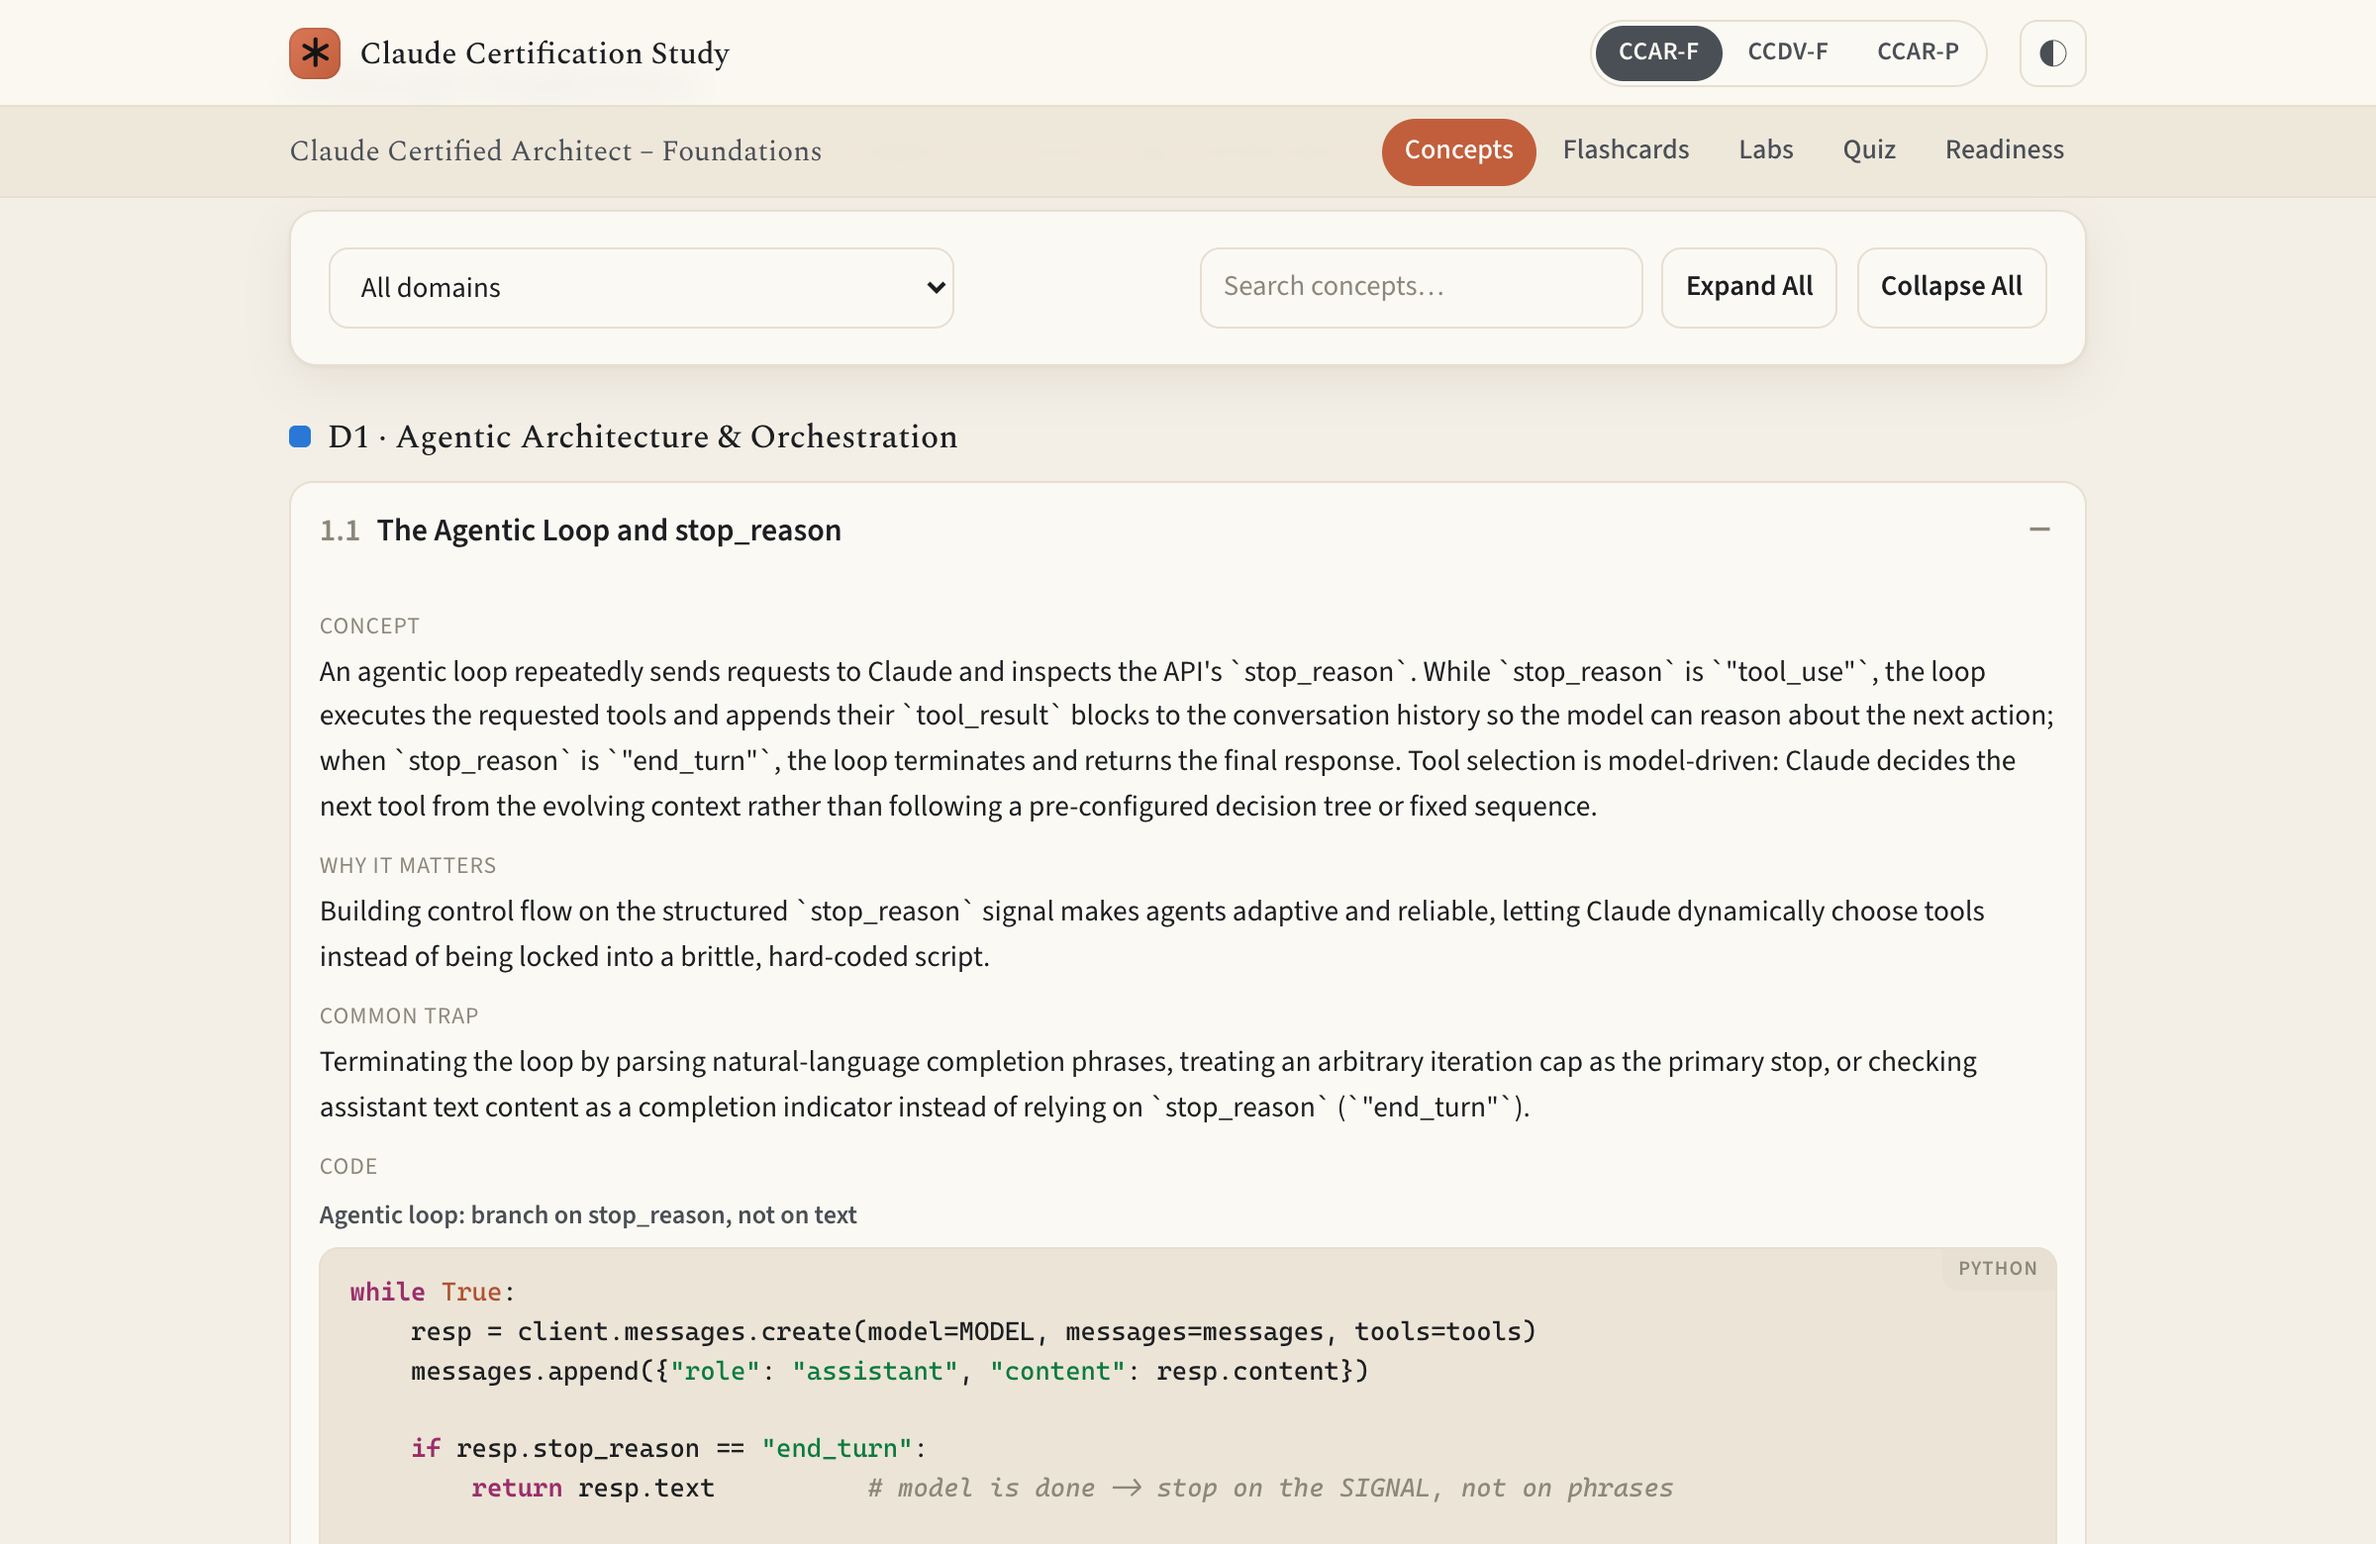
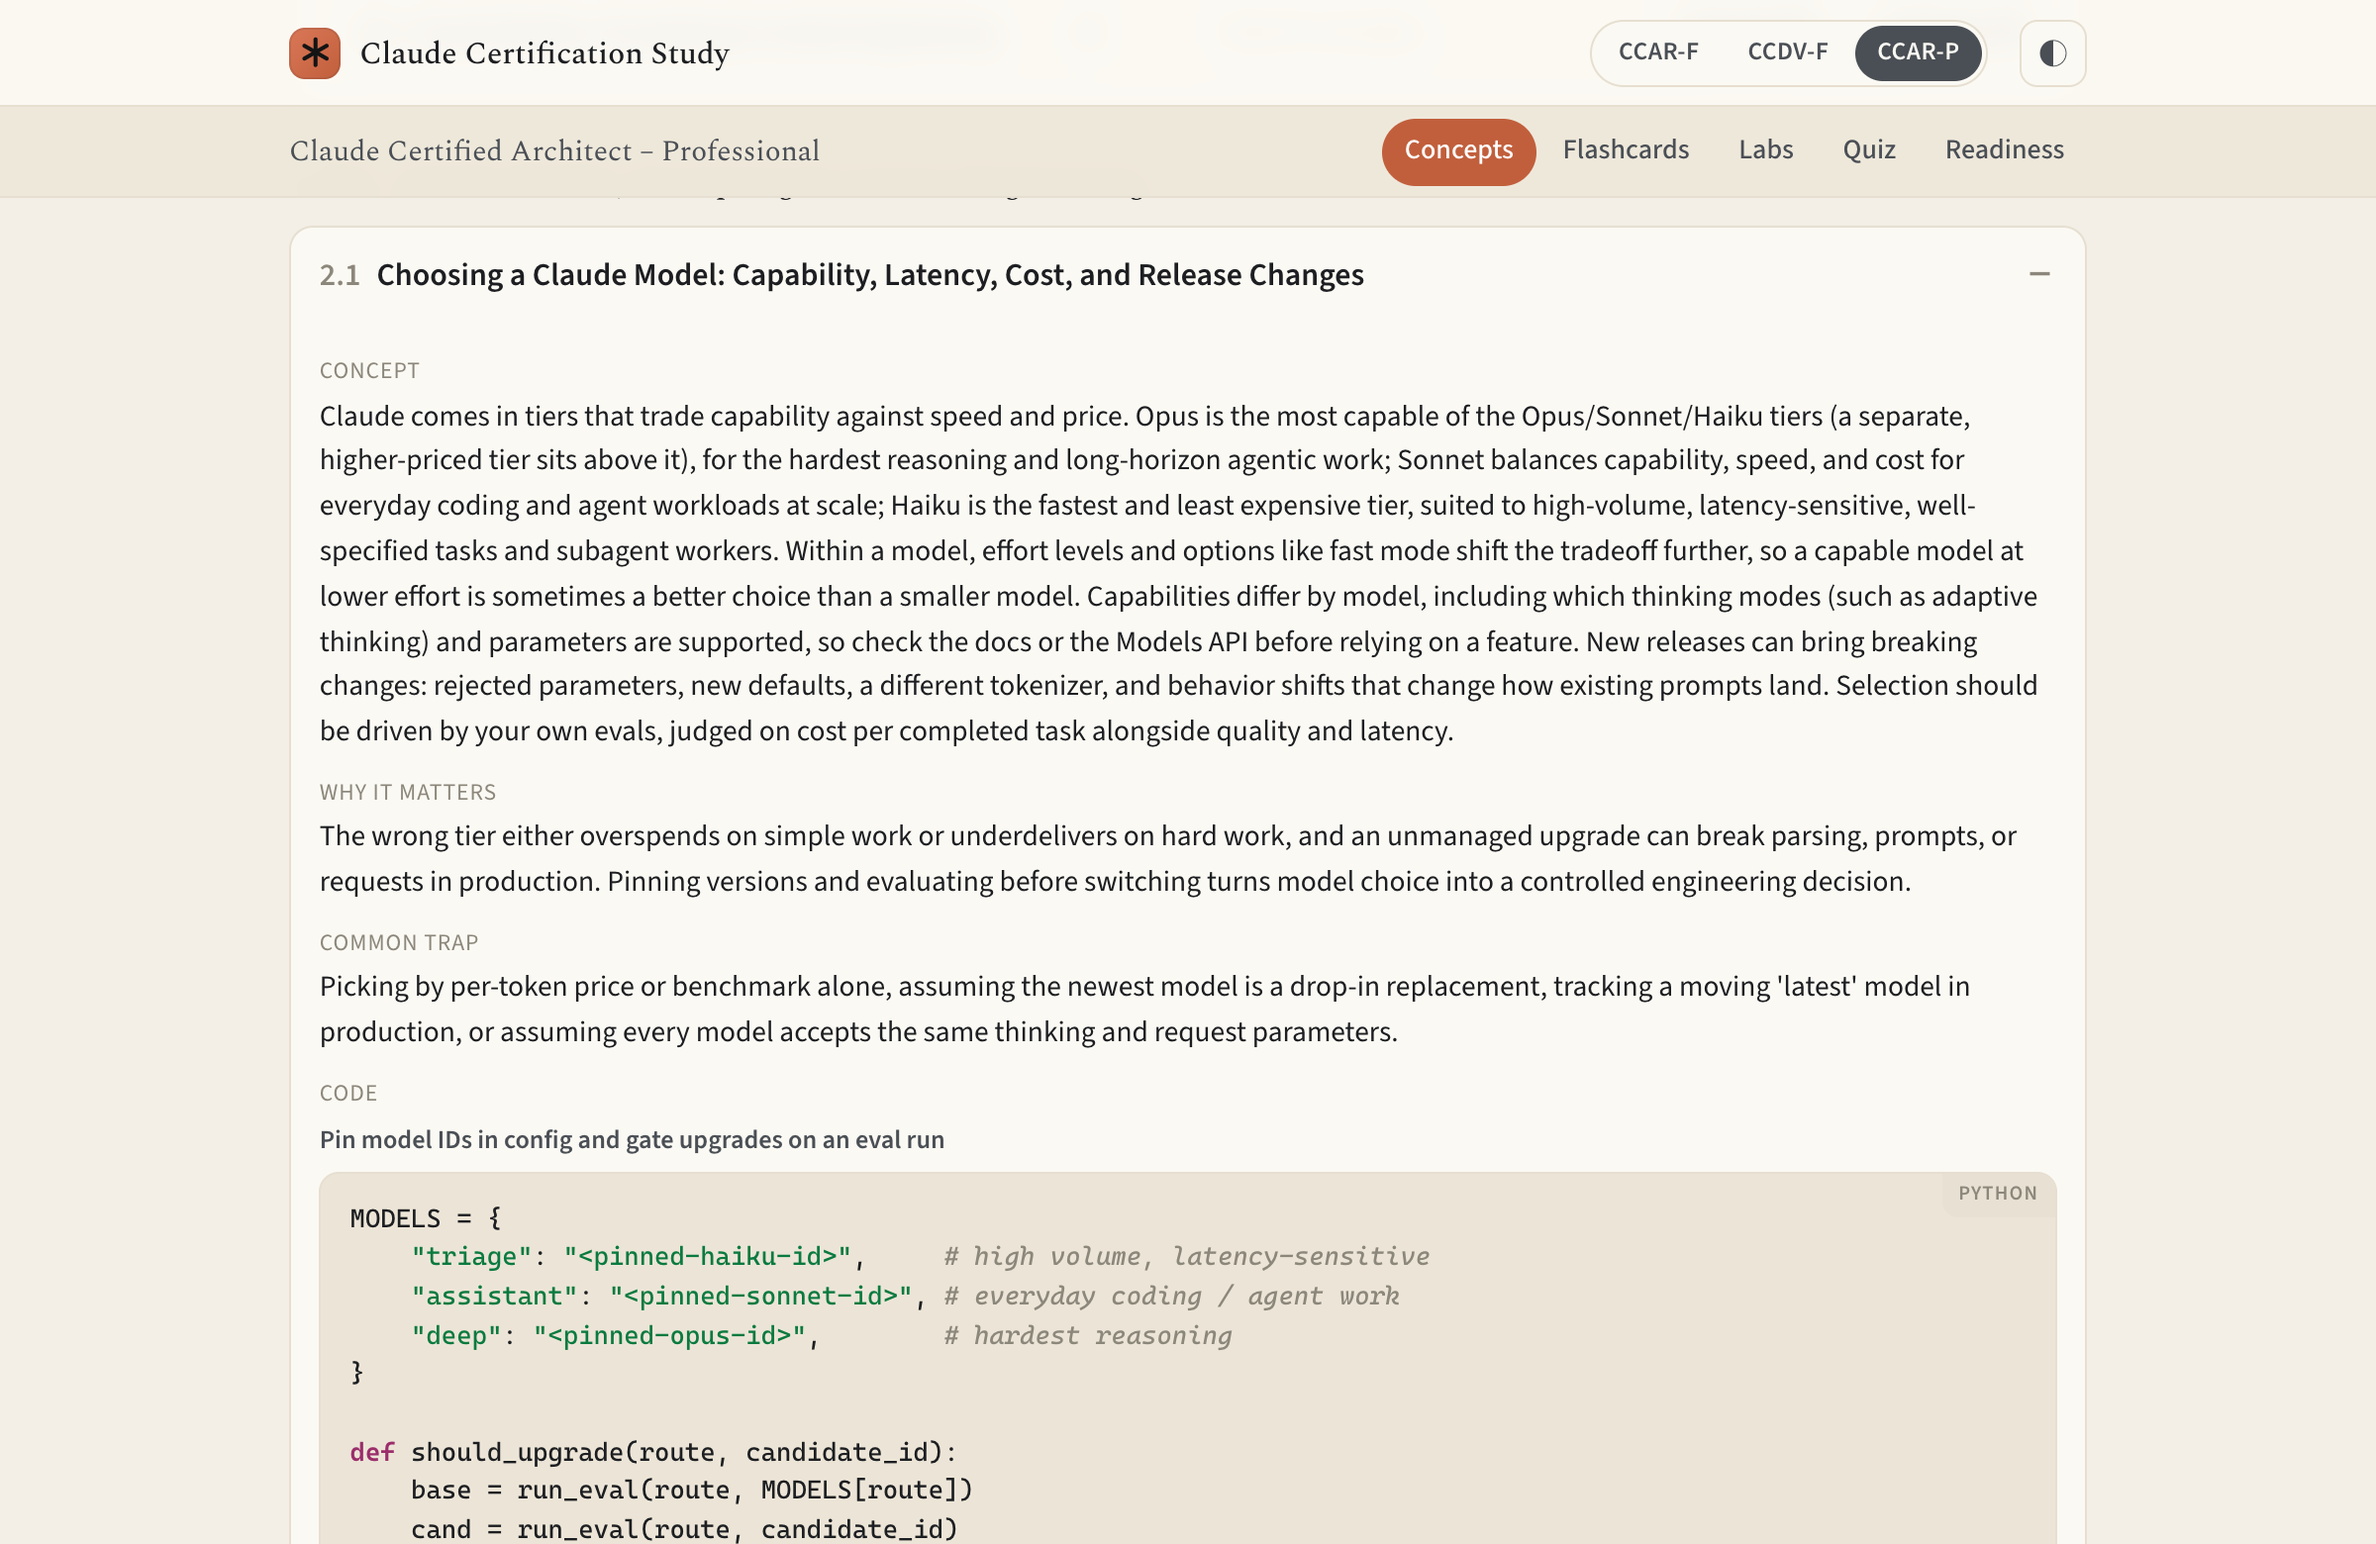
README: retake study-app screenshot on CCAR-P (Concepts 2.1 with code sample, 3-exam switcher)

diff --git a/README.md b/README.md
@@ -1,6 +1,6 @@
 # Claude Certification Exam Prep (2026)
 
-![The study app — the CCAR-F Concepts view with a syntax-highlighted code sample; the header switches between CCAR-F, CCDV-F, and CCAR-P](docs/study-app.png)
+![The study app — the CCAR-P Concepts view (2.1, model selection) with a syntax-highlighted code sample; the header switches between CCAR-F, CCDV-F, and CCAR-P](docs/study-app.png)
 
 Study materials, hands-on labs, and a fully offline study app for Anthropic's Claude
 certifications. The repo is built to hold **any number of exams**: content lives in
